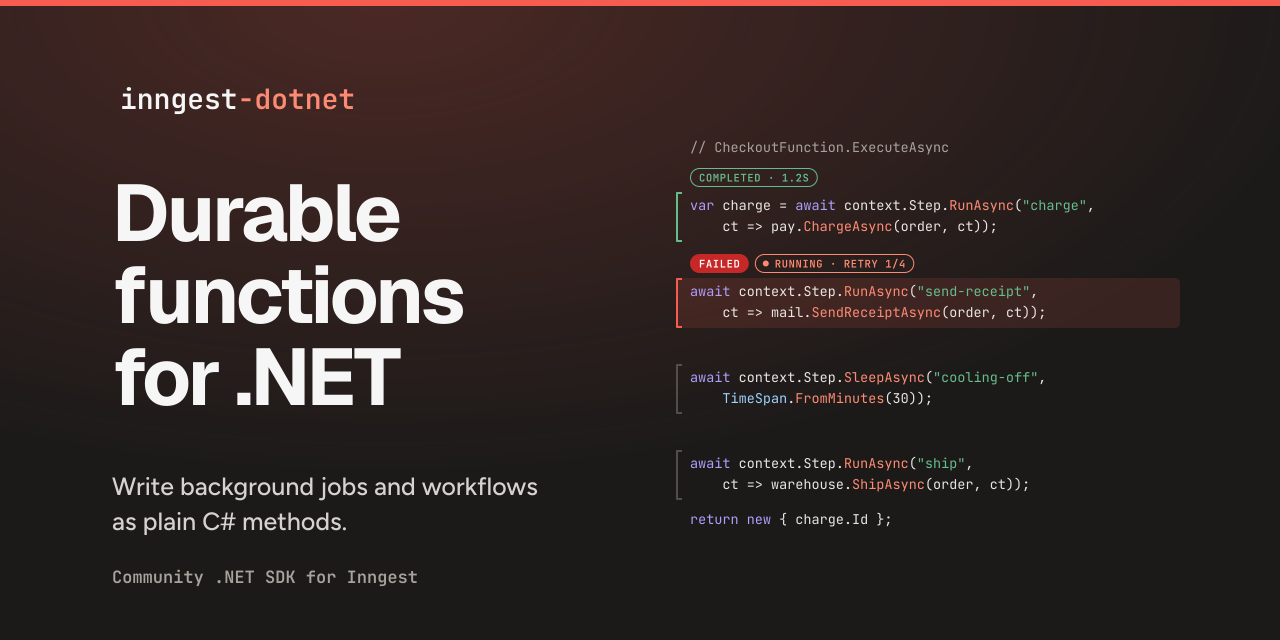
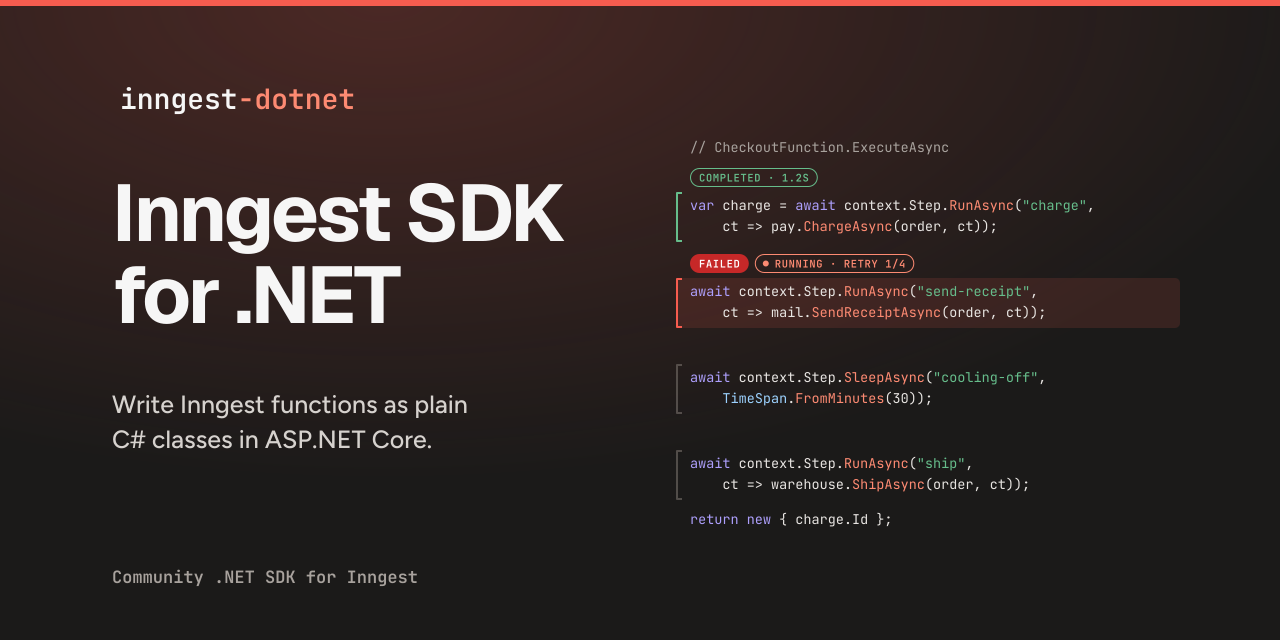
Present the README as the .NET SDK for Inngest, as the landing page does
The banner, the opening line and the package README name the SDK and link inngest.com. The why-durable-execution and
how-it-works sections, which explained Inngest itself, give way to a short section on what Inngest does and what the
SDK does, with links to Inngest's own docs. The social preview is redrawn with the new title.

Changed region(s): [[0.0938, 0.2812, 0.4375, 0.7188], [0.0938, 0.75, 0.4375, 0.8438]]

diff --git a/site/scripts/readme-images.ts b/site/scripts/readme-images.ts
@@ -356,7 +356,7 @@ interface BannerColors {
 function banner(c: BannerColors): string {
   const W = 960;
   const H = 248;
-  const p = new Picture(W, H, 'inngest-dotnet: durable functions for .NET');
+  const p = new Picture(W, H, 'inngest-dotnet: Inngest SDK for .NET');
   p.def(
     `<radialGradient id="glow" gradientUnits="userSpaceOnUse" cx="480" cy="-60" r="340" gradientTransform="translate(480 -60) scale(1.85 1) translate(-480 60)"><stop offset="0" stop-color="#f65c4f" stop-opacity="0.26"/><stop offset="0.72" stop-color="#f65c4f" stop-opacity="0"/></radialGradient>`,
   );
@@ -369,7 +369,7 @@ function banner(c: BannerColors): string {
   p.add(`<rect x="0.5" y="0.5" width="${W - 1}" height="${H - 1}" rx="13.5" fill="none" stroke="${c.border}"/>`);
 
   p.line([{ text: 'inngest', face: 'wordmark' }, { text: '-dotnet', face: 'wordmark', fill: c.suffix }], 21, W / 2, 62, c.title, { center: true });
-  p.line([{ text: 'Durable functions for .NET', face: 'display' }], 58, W / 2, 138, c.title, { center: true, tracking: -58 * 0.035 });
+  p.line([{ text: 'Inngest SDK for .NET', face: 'display' }], 58, W / 2, 138, c.title, { center: true, tracking: -58 * 0.035 });
 
   // The facts, each after a coral dot, in two centered rows.
   const rows = [
@@ -397,7 +397,7 @@ function banner(c: BannerColors): string {
 // GitHub's social preview is 1280 by 640. It shows the landing page's social card, widened with the card's own
 // background.
 async function socialPreview(): Promise<Buffer> {
-  const card = renderCardSvg({ title: 'Durable functions for .NET', home: true })
+  const card = renderCardSvg({ title: 'Inngest SDK for .NET', home: true })
     .replace('width="1200" height="630" viewBox="0 0 1200 630"', 'width="1280" height="640" viewBox="-40 -5 1280 640"')
     .replaceAll('<rect width="1200" height="630"', '<rect x="-40" y="-5" width="1280" height="640"')
     .replace('<rect x="0" y="0" width="1200" height="6"', '<rect x="-40" y="-5" width="1280" height="6"');

diff --git a/site/scripts/architecture-animation.ts b/site/scripts/architecture-animation.ts
@@ -1,6 +1,6 @@
-// The landing page's architecture figure as an animated picture, in the site's dark and light colors, for the landing
-// page and the README. It plays one run over HTTP: an event reaches Inngest, Inngest calls the app once per step, a
-// step that fails is retried after a backoff, and the last call returns the output. The Connect lane stays still.
+// The architecture figure of the How it works page as an animated picture, in the site's dark and light colors. It
+// plays one run over HTTP: an event reaches Inngest, Inngest calls the app once per step, a step that fails is retried
+// after a backoff, and the last call returns the output. The Connect lane stays still.
 //
 // It follows scripts/readme-images.ts: text is set as outlines from the site's own fonts, so the pictures carry no
 // fonts and look the same everywhere, and every state is drawn once and faded in and out by CSS animations on one
@@ -28,7 +28,7 @@ const fonts = {
 };
 type Face = keyof typeof fonts;
 
-// The colors of the README's architecture picture, from src/styles/theme.css, plus the failure red.
+// The colors of the architecture picture, from src/styles/theme.css, plus the failure red.
 interface Palette {
   frame: string;
   frameBorder: string;

diff --git a/README.md b/README.md
@@ -2,11 +2,11 @@
 
 <picture>
   <source media="(prefers-color-scheme: dark)" srcset=".github/assets/banner-dark.svg">
-  <img alt="inngest-dotnet: durable functions for .NET" src=".github/assets/banner-light.svg">
+  <img alt="inngest-dotnet: Inngest SDK for .NET" src=".github/assets/banner-light.svg">
 </picture>
 
-Write background jobs and workflows as plain C# methods. Inngest runs every step once, retries only what fails and
-lets a run wait for days, so you ship reliable workflows without queues, state tables or cron glue.
+Write [Inngest](https://www.inngest.com) functions as plain C# classes in your ASP.NET Core app, with realtime updates
+and the .NET ecosystem you already use. Inngest runs them; this SDK connects your .NET app to it.
 
 [![CI](https://github.com/damikun/inngest-dotnet/actions/workflows/ci.yml/badge.svg?branch=main)](https://github.com/damikun/inngest-dotnet/actions/workflows/ci.yml)
 [![NuGet](https://img.shields.io/nuget/v/Inngest)](https://www.nuget.org/packages/Inngest)
@@ -14,8 +14,8 @@ lets a run wait for days, so you ship reliable workflows without queues, state t
 
 [Documentation](https://damikun.github.io/inngest-dotnet/) ·
 [Getting started](https://damikun.github.io/inngest-dotnet/guides/getting-started/) ·
-[How it works](https://damikun.github.io/inngest-dotnet/how-it-works/) ·
-[Examples](https://damikun.github.io/inngest-dotnet/examples/order-fulfillment/)
+[Examples](https://damikun.github.io/inngest-dotnet/examples/order-fulfillment/) ·
+[What is Inngest?](https://www.inngest.com/)
 
 </div>
 
@@ -33,6 +33,20 @@ from ASP.NET Core, or from a worker that needs no public endpoint.
 
 Inngest runs each step once and keeps its result. When `send-receipt` fails, Inngest retries that step alone, so the
 card is not charged again, and a sleep holds no thread or worker while it waits.
+
+## Built on Inngest
+
+Inngest is the platform that runs your functions: it receives events, keeps the state of every run, retries what
+fails and shows each run in its dashboard. This SDK is how a .NET app takes part. You write the functions in C#, and
+the SDK serves them to Inngest and sends your events. Inngest's own documentation covers the platform:
+
+- [Concepts](https://www.inngest.com/docs/durable-execution/concepts): events, triggers, runs, steps and waits.
+- [How Inngest functions run](https://www.inngest.com/docs/durable-execution/durable-workflows): how a run saves each
+  step and resumes after a failure or a pause.
+- [The dev server](https://www.inngest.com/docs/local-development): Inngest on your machine, with its UI.
+
+[How it works](https://damikun.github.io/inngest-dotnet/how-it-works/) shows what this SDK answers to each of
+Inngest's calls in a real run.
 
 ## Ordinary C#, durable by default
 
@@ -78,18 +92,6 @@ public sealed class CheckoutFunction(IPayments pay, IMailer mail, IWarehouse war
 - **The sleep holds nothing.** `SleepAsync` ends the call, and Inngest calls the function again in 30 minutes.
   Nothing runs or waits in your app meanwhile, and deploys in between do not matter.
 - **`return` completes the run.** The SDK reports the output and Inngest marks the run completed.
-
-## Why durable execution
-
-Checkout flows, onboarding emails, billing runs and webhook handlers call systems that fail, and some have to wait
-for days. With durable steps, a failure costs one retry of one step, not a second charge.
-
-- **A retry repeats only what failed.** Inngest saves each step's result. When an API returns a `500` or the process
-  crashes, the retry runs the step that failed, not the charge and the email before it.
-- **Runs can wait for days.** A run can sleep until a date or wait for an event, such as a payment or a reply,
-  without a worker, a timer or a table of your own. The app can deploy, restart or scale down in the meantime.
-- **No queue plumbing.** Concurrency limits, throttling, rate limits, debounce, batching and cancellation are options
-  on the function. Inngest enforces them and keeps the history of every run.
 
 ## Features
 
@@ -137,28 +139,6 @@ Flow control is a set of attributes on the function, or options in code. Inngest
 [Throttle(10, "1m")]
 [CancelOn("account/deleted", Match = "data.accountId")]
 ```
-
-## How it works
-
-<picture>
-  <source media="(prefers-color-scheme: dark)" srcset="site/src/assets/architecture-dark.svg">
-  <img alt="One run, animated. An event reaches Inngest, which calls your ASP.NET Core app at /api/inngest once per step. The charge step answers 206 with its result. Send-receipt fails, and Inngest retries it after a backoff. The last call answers 200 with the output. Inngest can also reach a Connect worker over a WebSocket the worker opened." src="site/src/assets/architecture-light.svg">
-</picture>
-
-Inngest stores the run and calls your app for each step. Your app keeps no state between calls. The SDK replays the
-function and tells Inngest what to do next.
-
-1. **An event starts a run.** Your code, a webhook or a schedule sends an event such as `shop/order.paid`, and
-   Inngest starts a run of every function it triggers.
-2. **Each call replays the function.** Inngest calls `/api/inngest` with the results of the steps that already
-   finished. The SDK hands them back at once, so the function picks up where it stopped.
-3. **The answer says what is next.** The SDK answers `206` with the step it ran or reached, such as a sleep, or `200`
-   with the output once the function returns.
-
-With Connect, the same functions run in a worker that opens a WebSocket to Inngest. Executions arrive over the
-socket and results go back over it, so the worker needs no public endpoint and can run behind a firewall.
-
-[Step through a real run, call by call](https://damikun.github.io/inngest-dotnet/how-it-works/)
 
 ## Packages
 

diff --git a/src/README.md b/src/README.md
@@ -1,10 +1,9 @@
 # inngest-dotnet
 
-Durable functions for .NET. Write background jobs and workflows as plain C# methods. Inngest runs every step once,
-retries only what fails and lets a run wait for days, so you ship reliable workflows without queues, state tables or
-cron glue.
+Write [Inngest](https://www.inngest.com) functions as plain C# classes in your ASP.NET Core app, with realtime updates
+and the .NET ecosystem you already use. Inngest runs them; this SDK connects your .NET app to it.
 
-inngest-dotnet is a community .NET SDK for [Inngest](https://www.inngest.com), ported from the Inngest TypeScript SDK,
+inngest-dotnet is a community .NET SDK for Inngest, ported from the Inngest TypeScript SDK,
 [inngest-js](https://github.com/inngest/inngest-js). It targets .NET 8 and .NET 10 and is Native AOT compatible, except
 `Inngest.EntityFrameworkCore`, which runs on Entity Framework Core, and the packages for tests and Aspire app hosts,
 which are never compiled ahead of time.
@@ -146,6 +145,7 @@ send an event with `IInngestClient`, and watch the run at http://localhost:8288.
 - [How it works](https://damikun.github.io/inngest-dotnet/how-it-works/)
 - [Examples](https://damikun.github.io/inngest-dotnet/examples/order-fulfillment/)
 - [Source code and samples](https://github.com/damikun/inngest-dotnet)
+- [Inngest documentation](https://www.inngest.com/docs), for the platform itself
 
 ## License
 
